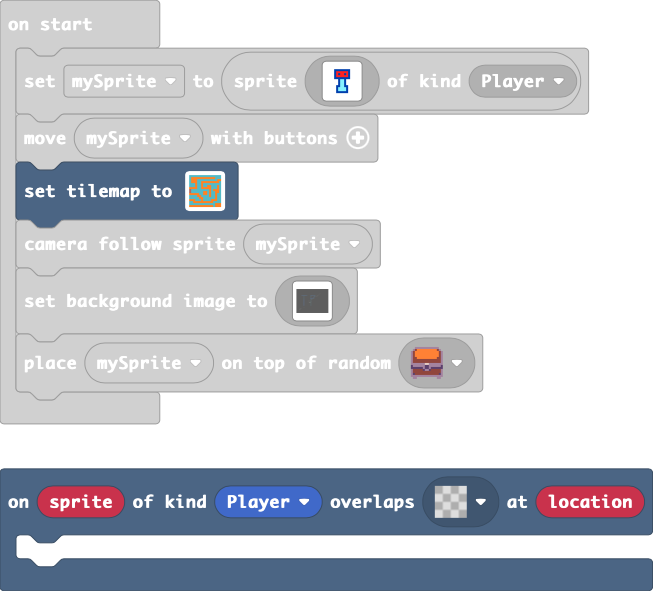
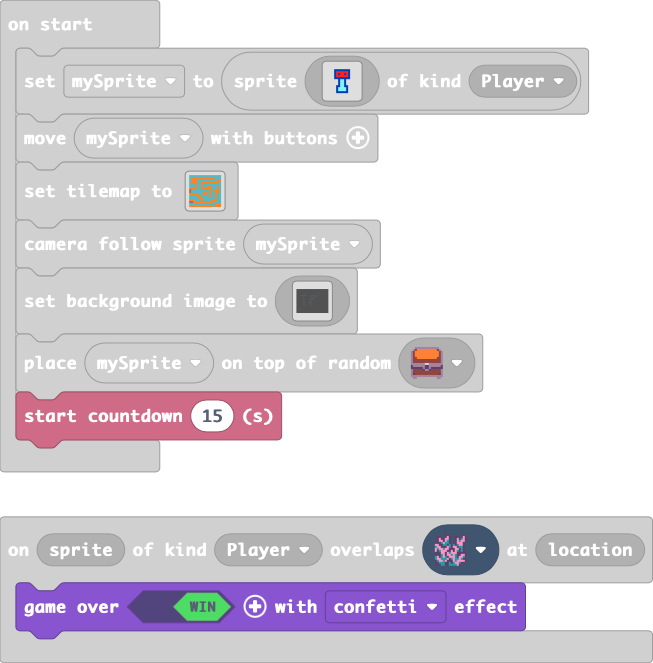
finish line and race

diff --git a/main.ts b/main.ts
@@ -1,9 +1,6 @@
 scene.onOverlapTile(SpriteKind.Player, sprites.builtin.coral2, function (sprite, location) {
     game.over(true, effects.confetti)
 })
-scene.onOverlapTile(SpriteKind.Player, assets.tile`transparency16`, function (sprite, location) {
-	
-})
 let mySprite = sprites.create(img`
     . . . . . . . . . . . . . . . . 
     . . . . . . . . . . . . . . . . 
